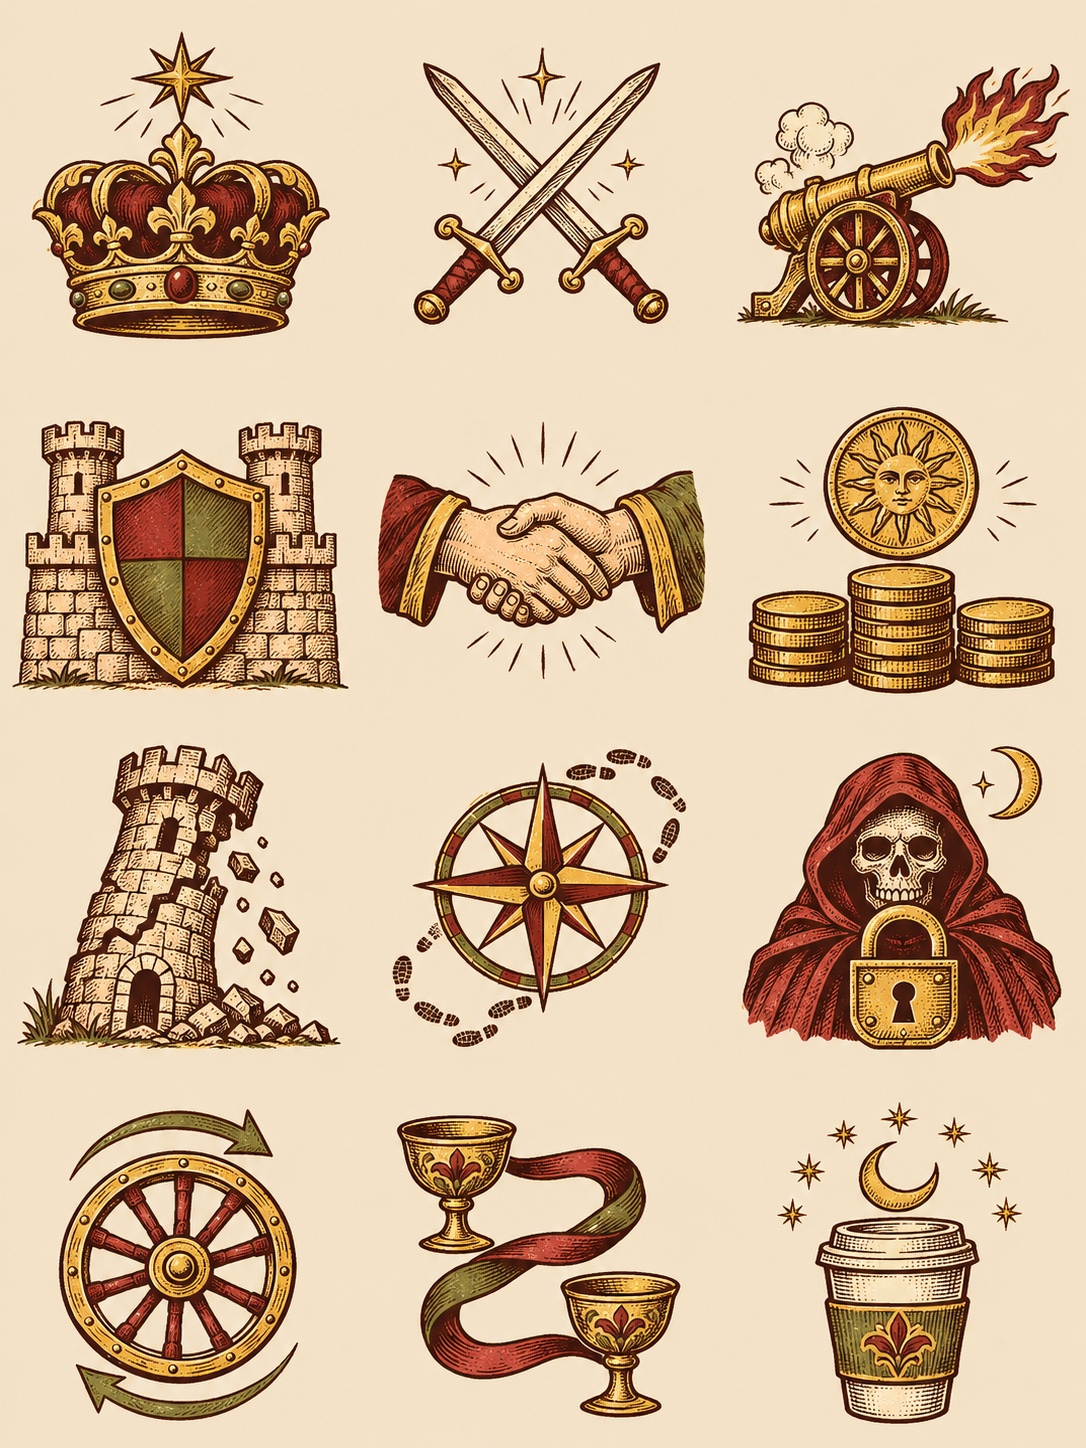
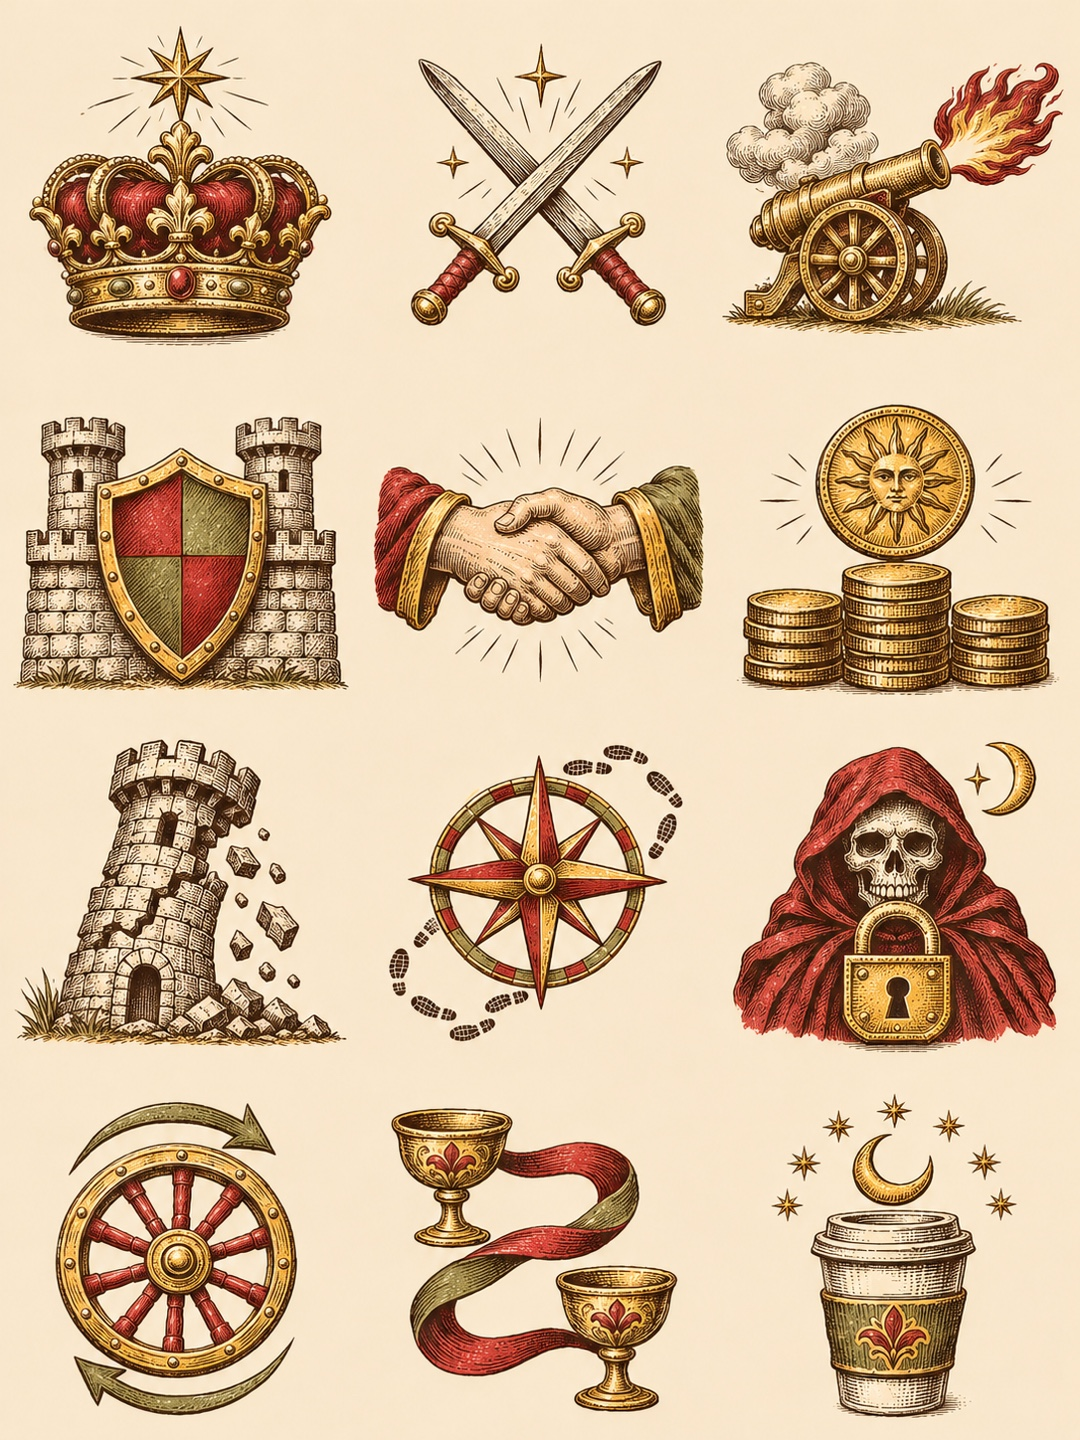
Update tarot artwork and card sizing

diff --git a/style.css b/style.css
@@ -138,13 +138,14 @@ progress::-moz-progress-bar{background:var(--wine)}
 
 /* Tarot illustrations use twelve independently positioned emblems per sheet. */
 .tarot-art{display:block;width:100%;aspect-ratio:1;background-color:#f4e7cd;background-repeat:no-repeat;background-size:300% 400%;background-position:var(--art-x) var(--art-y)}
-.atlas-1{background-image:url("art/tarot-1.jpg")}
-.atlas-2{background-image:url("art/tarot-2.jpg")}
-.atlas-3{background-image:url("art/tarot-3.jpg")}
+.atlas-1{background-image:url("art/tarot-1.jpg?v=engraving")}
+.atlas-2{background-image:url("art/tarot-2.jpg?v=engraving")}
+.atlas-3{background-image:url("art/tarot-3.jpg?v=engraving")}
 .atlas-4{background-image:url("art/tarot-4.jpg");background-size:200% 200%}
 .atlas-5{background-image:url("art/tarot-5.jpg");background-size:300% 200%}
 .atlas-6{background-image:url("art/tarot-6.jpg");background-size:200% 200%}
 .atlas-7{background-image:url("art/tarot-7.jpg");background-size:200% 200%}
+.atlas-survival{background-image:url("art/survival-redesign.jpg");background-size:100% 100%;background-position:center}
 .tarot-frame{--plate:#f4e7cd;--ornament:#844a32;--plate-ink:#483024;position:relative;isolation:isolate;overflow:hidden;border:1px solid var(--ornament);border-radius:13px;padding:11px 11px 10px;background:var(--plate);color:var(--plate-ink)}
 .tarot-frame::after{content:"";position:absolute;inset:5px;z-index:1;border:1px solid var(--ornament);border-radius:8px;opacity:.66;pointer-events:none}
 .tarot-frame .tarot-art{border:1px solid color-mix(in srgb,var(--ornament) 52%,transparent);border-radius:5px}
@@ -156,7 +157,7 @@ progress::-moz-progress-bar{background:var(--wine)}
 .tarot-caption h2,.deck-back-title,.result-intro-copy h2{font-family:"Iansui","Kaiti TC","DFKai-SB",var(--serif);font-weight:400;letter-spacing:.045em;overflow-wrap:anywhere}
 .tarot-caption h2{font-size:1.45rem;line-height:1.26;text-wrap:balance}
 .tarot-entry{min-width:0}
-.deck-grid{display:grid;grid-template-columns:repeat(4,minmax(0,1fr));gap:24px 16px}
+.deck-grid{display:grid;grid-template-columns:repeat(4,minmax(0,1fr));grid-auto-rows:1fr;gap:24px 16px}
 .result-intro{display:grid;grid-template-columns:minmax(90px,132px) minmax(0,1fr);gap:18px;align-items:center;margin-bottom:12px;perspective:600px}
 .result-tarot{padding:10px;aspect-ratio:4/5;display:grid;align-items:center;transform-origin:center center}
 .result-intro-copy h2{font-size:clamp(1.4rem,4.4vw,2rem);line-height:1.2;margin:4px 0 6px}
@@ -210,8 +211,8 @@ progress::-moz-progress-bar{background:var(--wine)}
 @media(max-width:880px){.match-stats{padding-inline:13px}}
 @media(max-width:390px){.match-stats th,.match-stats td{padding-inline:2px}}
 
-.deck-flipper{position:relative;perspective:900px}
-.deck-faces{display:grid;transform-style:preserve-3d;transition:transform .34s cubic-bezier(.23,.81,.26,1)}
+.deck-flipper{position:relative;perspective:900px;height:100%}
+.deck-faces{display:grid;height:100%;transform-style:preserve-3d;transition:transform .34s cubic-bezier(.23,.81,.26,1)}
 .deck-faces > .tarot-frame{grid-area:1/1;backface-visibility:hidden;-webkit-backface-visibility:hidden}
 .deck-flipper.is-flipped .deck-faces{transform:rotateY(180deg)}
 .deck-back{display:grid;align-content:center;gap:7px;padding:20px 16px;transform:rotateY(180deg)}

diff --git a/index.html b/index.html
@@ -7,8 +7,8 @@
   <meta name="description" content="五排戰績截圖、翻牌計分及每日排行榜。">
   <title>五排飲料局</title>
   <link rel="icon" href="mark.svg" type="image/svg+xml">
-  <link rel="stylesheet" href="style.css?v=multiple-scores">
-  <script type="module" src="app.mjs?v=multiple-scores"></script>
+  <link rel="stylesheet" href="style.css?v=survival-redesign">
+  <script type="module" src="app.mjs?v=survival-redesign"></script>
 </head>
 <body>
   <header class="top">
